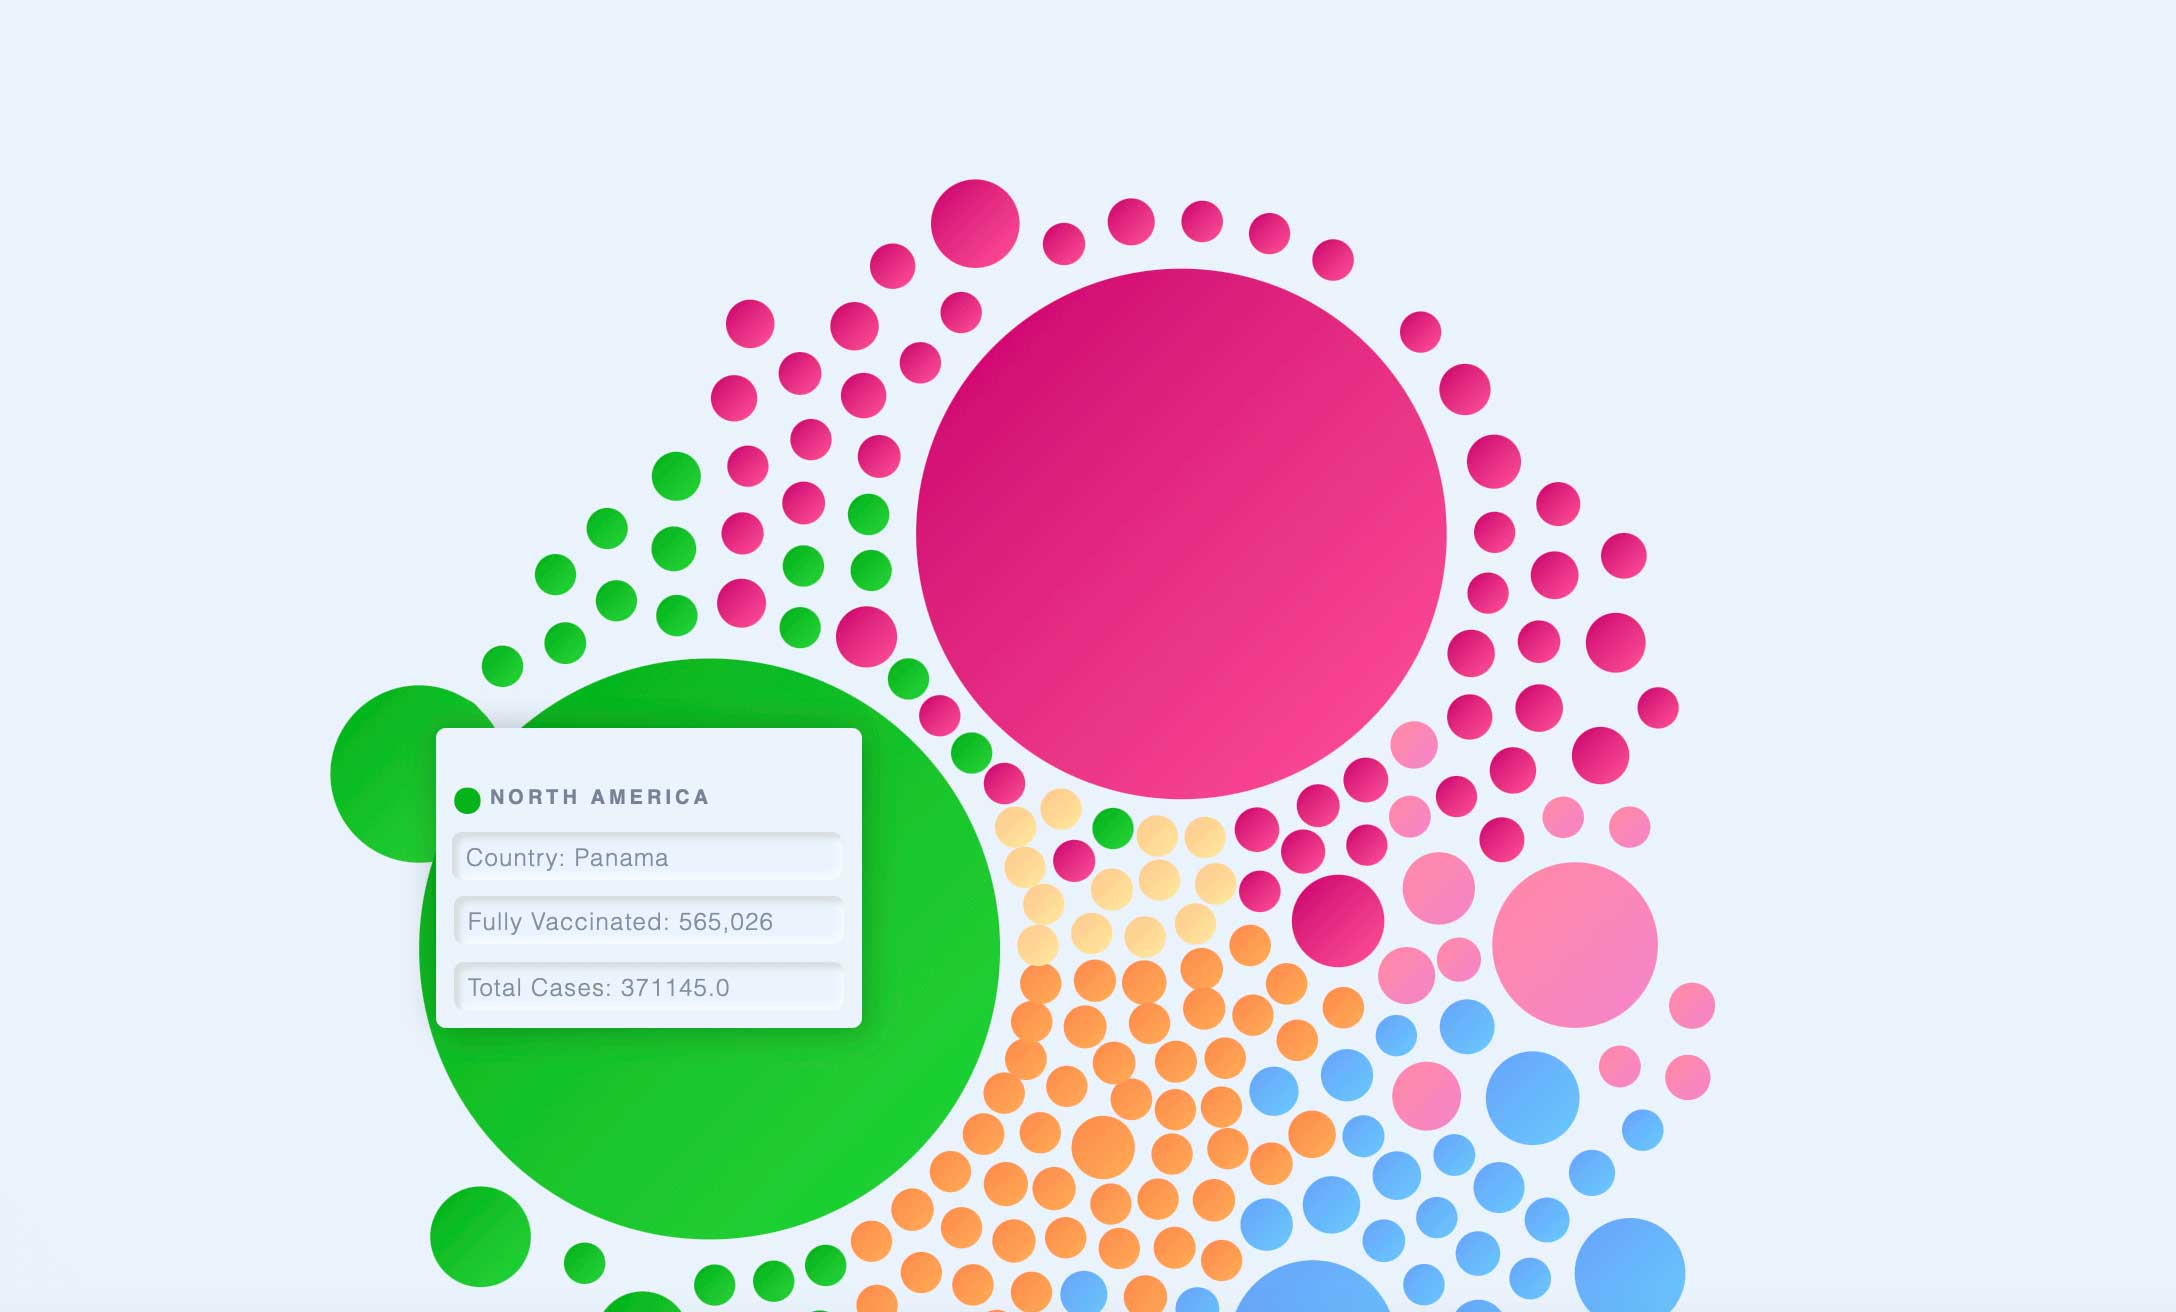
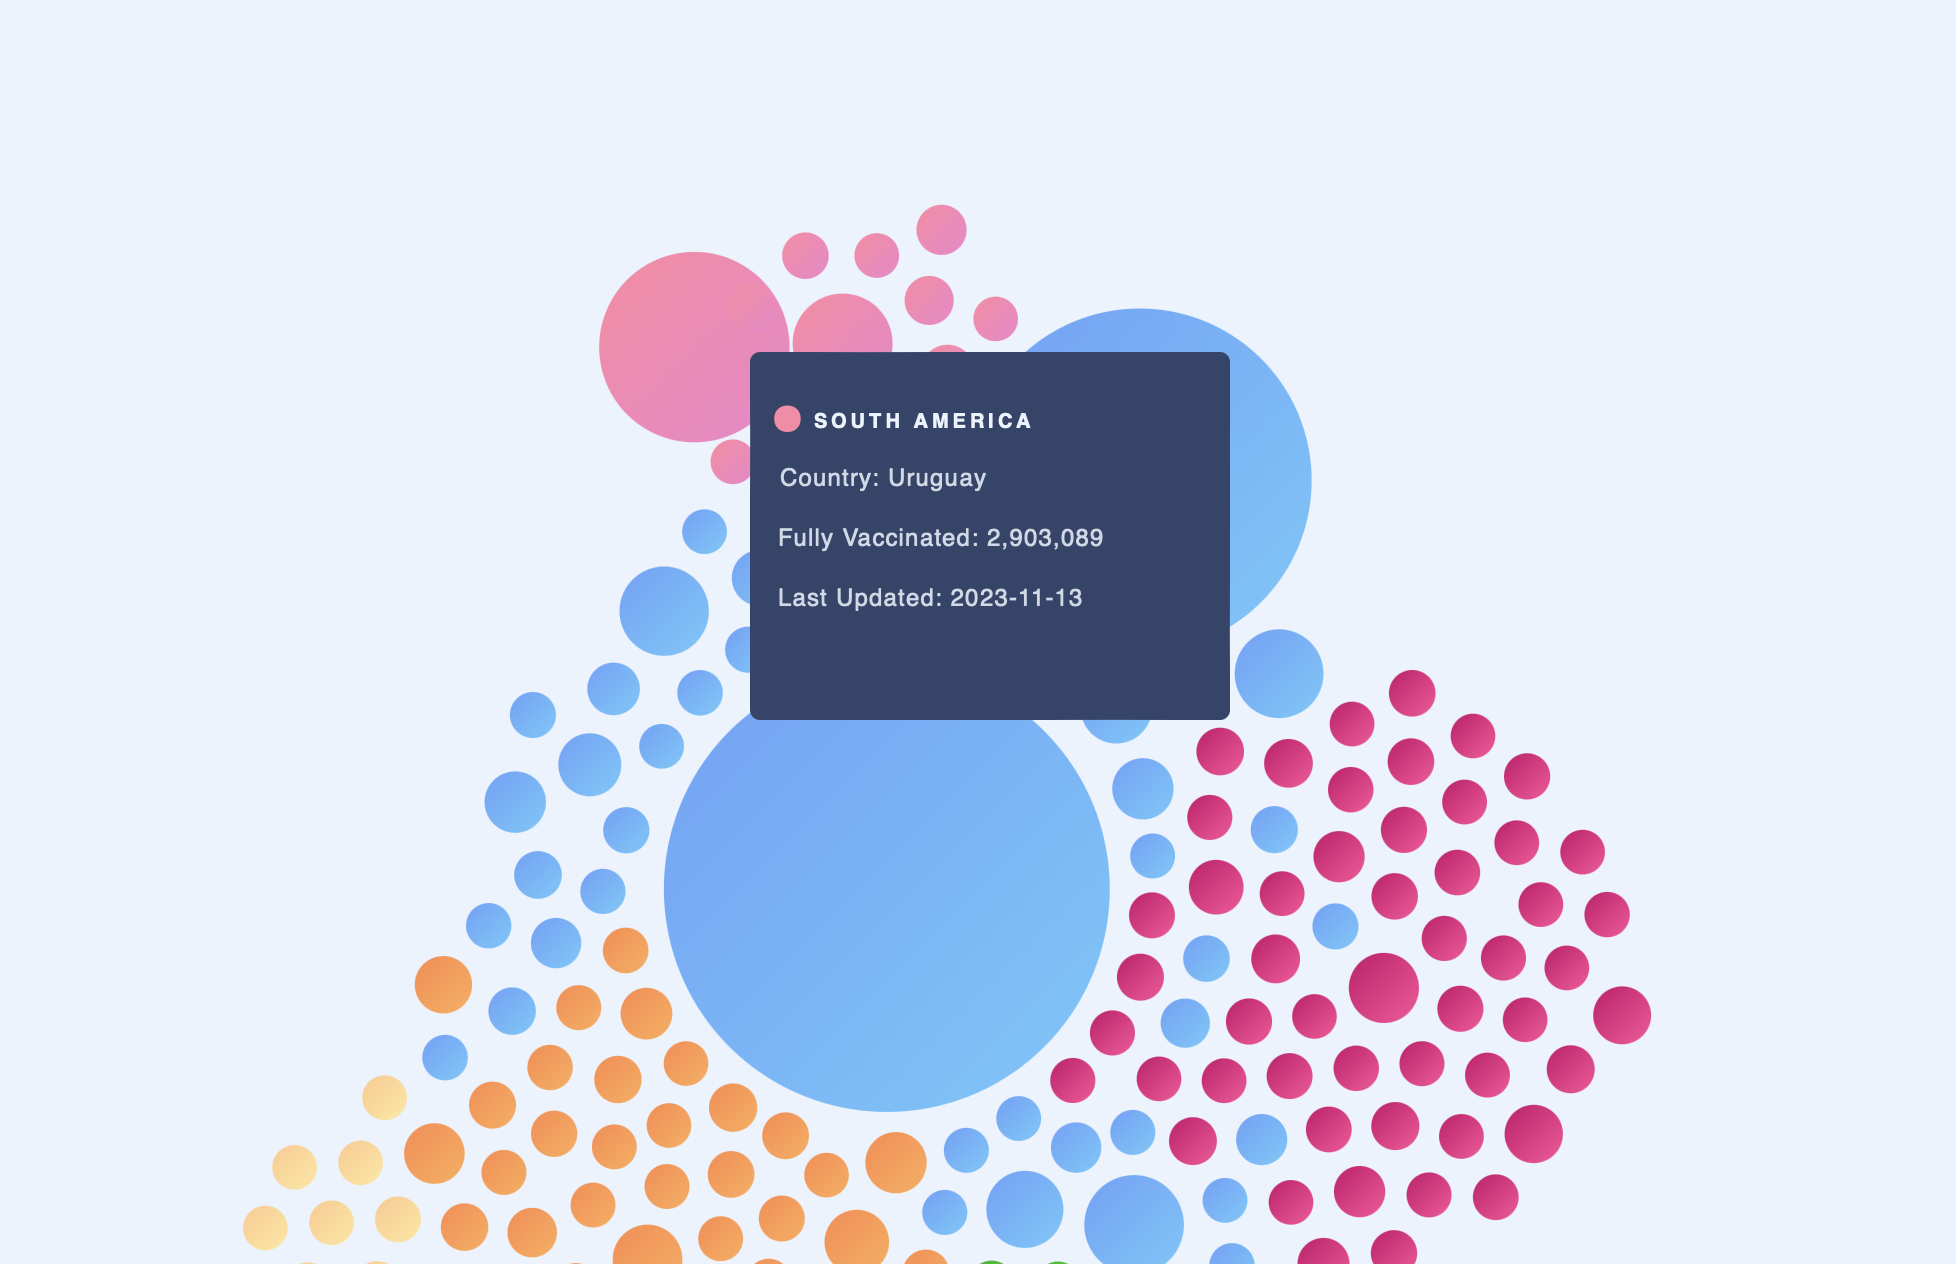
make portfolio adjustments

diff --git a/portfolio/src/Poc.js b/portfolio/src/Poc.js
@@ -1,7 +1,9 @@
 import './styles/infopage.css';
-import cordillera from './dev_files/poc.png';
+import iPadTop from './dev_files/poc.png';
 import Footer from './Footer.js';
 import LaunchButton from './LaunchButton.js';
+import iPadLogin from './dev_files/poc-ipad-login.png';
+import iPadHome from './dev_files/poc-ipad-home.png';
 
 function Poc() {
 
@@ -9,17 +11,36 @@ function Poc() {
     <div className="Info">
       <div class="work-title-div">
       <p className="span-pos2"><span className="dev2">Development</span></p>
-        <h2 className="work-title">PDF Speech to Text <br></br>
+        <h2 className="work-title">PDF editor and reader <br></br>
 Proof of Concept</h2>
         <p className="subtitle"> PROOF OF CONCEPT · 2021</p>
       </div>
       <div className="header-container">
-        <img className="header-img" src={cordillera}></img>
+        <img className="header-img" src={iPadTop}></img>
       </div>
       <div class="work-title-div">
-        <p className="body-text">Harnessing React.js, Express.js, Node.js, PostgreSQL, and Gitlab, a teamate and I built a PDF proof of concept iOS & web app with Text-To-Speech & highlighting capabilities for a prominent financial LLC. I also created the UI Design System and views for both the web and iOS apps, working equally with a team member to translate figma into code, create a REST API, and establish Database connectivity.</p>
-        <p className="body-text">I'd be happy to share more deeply about my experience over email or on the phone. Visuals are the personal re-imaginations of my final work and are not representative of any true public or unrealized product.
-</p>
+        <h2 className="body-text-title">Project overview</h2>
+        <p className="body-text">Using React.js, Express.js, Node.js, PostgreSQL, and GitLab, my teammate and I built a proof-of-concept iOS and web app for busy executives at a prominent financial LLC with many internal documents to read. This app provided a secure, internal platform to store, read, highlight and listen to PDF documents in a natural voice. </p>
+        <p className="body-text">Reading documents can be time-consuming and our users were limited in storage options due to document sensitivity. To add, no existing options allowed users to highlight or listen to documents. As a result, users had to find alternative ways to highlight key sections, and manually parse through entire documents, when listening would reduce eye strain, increase comprehension and allow for multi-tasking. </p>
+        <h2 className="body-text-title-segment">Solution</h2>
+        <p className="body-text">Our solution aimed to address all of these paint points. With it, users could log into the secure platform on iOS or web. Once there, they could view their previously uploaded PDFs, upload new ones, and easily access each by clicking or tapping on the filename under “Recent Files”. Users could highlight specific lines within a given document and have either selected lines or the entire document read aloud to them in a natural voice sounding voice for increased comprehension. </p>
+        <h2 className="body-text-title-segment">Views</h2>
+        <p className="body-text">All visuals are personal re-imaginations of my final work and are not representative of any public, or unrealized product.</p>
+        <div class="work-title-div-row">
+          <div class="work-title-div-col">
+            <div class="work-title-div-col-segment-challenge">
+              <figure>
+                <img className="work-col-img" src={iPadLogin}></img>
+                <figcaption>login view on an ipad</figcaption>
+              </figure>
+              <figure>
+                <img className="work-col-img" src={iPadHome}></img>
+                <figcaption>home view on an ipad</figcaption>
+              </figure>
+            </div>
+          </div>
+        </div>
+        <p className="body-text">For this project, I created the UI design system, designed the iOS and web application views, implemented the web app front end and in collaboration with my teammate, created a REST API, and established database connectivity. I'd be happy to share more deeply about my experience over email or on the phone.</p>
       </div>
       <Footer />
     </div>

diff --git a/portfolio/src/Masonry.js b/portfolio/src/Masonry.js
@@ -4,6 +4,8 @@ import fridgeshot from './design_files/fridgeshot.jpg';
 import garden from './dev_files/garden.jpg';
 import wave from './other_files/Wave.png';
 import Card from './Card.js';
+import covid from './dev_files/covidtop.jpg';
+
 
 function Masonry() {
 
@@ -12,13 +14,11 @@ function Masonry() {
     <div class="title-div-design"> 
       <div class="title-div">
         <div class="hello-statement">
-          <img  src={wave}></img>
-          <h1 > Hi! I'm Lauren</h1>
+          <img src={wave}></img>
+          <h1> Hi! I'm Lauren</h1>
         </div>
-        <h1 className="egg"> A Software Engineer and User Experience Designer based in New York. I'm driven by functionality & enjoyable human interaction.</h1>
-        <p className="egg">Currently at Narmi. Studied Computer Science, User Interface & User Experience Design at Cornell University.</p>
-          {/* I'm a new grad from Cornell University where I studied Computer Science and UI/UX Design. My sweet spots are both design and development.</p> */}
-        {/* <p className="egg">I'm a new grad from <span className="pg">Cornell University</span> where I studied <Link to="/dev"><span className="prog">CS</span></Link> and <span class="ed">UI/UX Design</span>. My sweet spots are both design and development.</p> */}
+        <h1 className="egg"> A Software Engineer based in New York, who's driven by a love for functional and beautiful design.</h1>
+        <p className="egg">Studied Computer Science, User Interface & User Experience Design at Cornell University.</p>
       </div>
       <svg class="blob" xmlns="http://www.w3.org/2000/svg" viewBox="0 0 1440 320">
         <path fill="#f6f6f8" fill-opacity="1" d="M0,96L60,128C120,160,240,224,360,213.3C480,203,600,117,720,106.7C840,96,960,160,1080,165.3C1200,171,1320,117,1380,90.7L1440,64L1440,0L1380,0C1320,0,1200,0,1080,0C960,0,840,0,720,0C600,0,480,0,360,0C240,0,120,0,60,0L0,0Z"></path>
@@ -29,7 +29,8 @@ function Masonry() {
       </div>
         <div class="card_container">
           <Card subpath="garden" image={garden} title="CLI Garden Simulation Game" label="Development" desc="Built OCaml CLI Gardening-simulation game in a team of 3."/>
-          <Card subpath="poc" image={poc} title="PDF Speech to Text Proof of Concept" label="Development" desc="Created Audible proof of concept iOS and web app."/>
+          <Card subpath="poc" image={poc} title="PDF editor and reader app" label="Development" desc="A secure platform to store, read, highlight and listen to PDF documents."/>
+          <Card subpath="covid" image={covid} title="Intl. Covid-19 Vaccine Progress" label="Development" desc="An interactive data visualization illustating world-wide covid-19 vaccination progress."/>
           <Card subpath="fridgeshot" image={fridgeshot} title="Fridgeshot App Case Study" label="Design" desc="Food recognizing and recipe generating app for new adults."/>
         </div>
     </div>

diff --git a/portfolio/src/About.js b/portfolio/src/About.js
@@ -13,12 +13,10 @@ import blob from "./other_files/blob2.JPG";
                 </div>
                 <div class='column-about'>
                     <div class='two-column-about'>
-                        <h1 class="about-title">A <span id="grad-r">User Experience Designer</span>, and a <span id="grad">Software Engineer</span>   driven by functionality and enjoyable human interaction.</h1>
+                        <h1 class="about-title">A <span id="grad">Software Engineer</span> keenly focused on fostering positive human experiences with technology.</h1>
 
-                    <p class="about-text">Hi! I’m a Software Engineer at <span id="bold">Narmi</span>. Previously, I interned at <span id="bold">Nasdaq</span> as a Full Stack Software Engineer where I designed and built a PDF reader and annotator proof of concept app. 
-                        <br></br><br></br>I recently received my Bachelor of Arts from <span id="bold">Cornell University</span>, where I studied <span id="bold">Computer Science</span> and <span id="bold">User Interface and User Experience Design</span>. I was as a Teaching Assistant for INFO 4340 (App Prototyping and Development) where I taught parts of the user centered design process and how to develop high fidelity app prototypes. 
-                        <br></br><br></br>I was also a team lead for the Business and Web Development sub team of <span id="bold">Cornell ChemE Car</span>, a nationally competing engineering project team that constructs efficient model cars powered and stopped by chemical reactions.  
-                        <br></br><br></br>I’ve always <span id="bold">been fascinated</span> with how things work and why. The ability to investigate this, and solve and create my own problems drew me to Computer Science. However, in my undergrad, I began focusing on why and how good human experiences with technology work. Design, especially good design, has always invigorated me. <span id="bold">Designing and developing</span> functional and beautiful things is now what drives me. 
+                    <p class="about-text">Hi! I’m a Software Engineer based in <span id="bold">New York</span>. I received my Bachelor of Arts from <span id="bold">Cornell University</span>, where I studied <span id="bold">Computer Science</span> and <span id="bold">User Interface and User Experience Design</span>.
+                        <br></br><br></br>I’ve always been fascinated with how things work and why. The opportunity to address problem spaces with creative solutions lead me to software, while compositional harmony drew me to design. I’m happiest at the intersection of both!
                     </p>
                     </div>
                 </div>

diff --git a/portfolio/src/Footer.js b/portfolio/src/Footer.js
@@ -1,13 +1,16 @@
 
 import './styles/footer.css';
-import heart from "./other_files/heart_front_color.png";
 import up from "./other_files/PointUpFace.png";
 import mail from "./other_files/mail-front-clay.png";
 import brief from "./other_files/travel-front-color.png";
 import pc from "./other_files/computer-front-premium.png";
 
-
 function Footer() {
+
+  function handleClick(){
+    window.scrollTo(0,0);
+  };
+
   function getDate() {
     var d = new Date();
     var date = "";
@@ -40,7 +43,7 @@ function Footer() {
       <div className="chat">
         <div className="mine messages">
           <p className="message"><img class="emoji-3d-links" src={up}></img>
-            &nbsp;<a className="back2Top" id="back2Top" title="Back to top" href="#">back up</a>
+            &nbsp;<a className="back2Top" id="back2Top" title="Back to top" onClick={handleClick}>back up</a>
           </p>
           <div className="message last">
             <ul className="f-three-column">
@@ -59,7 +62,7 @@ function Footer() {
         <div className="yours messages">
           <p class="yours-padding">
           <p className="message last">
-            Built with <img class="emoji-3d" src={heart}></img> by Lauren Harpole © 2024
+            Built entirely by Lauren Harpole © 2025
           </p>
           </p>
         </div>

diff --git a/portfolio/src/MasonryDev.js b/portfolio/src/MasonryDev.js
@@ -14,7 +14,8 @@ function MasonryDev() {
       </div>
         <div class="card_container">
           <Card subpath="garden" image={garden} title="CLI Garden Simulation Game" label="Development" desc="Built OCaml CLI Gardening-simulation game in a team of 3."/>
-          <Card subpath="poc" image={poc} title="PDF Speech to Text Proof of Concept" label="Development" desc="Created Audible proof of concept iOS and web app."/>          <Card subpath="covid" image={covid} title="Intl. Covid-19 Vaccine Progress" label="Development" desc="An interactive client-side data visualization made using the graphing and visualization library D3.js illustrating a breakdown in covid-19 worldwide data from May, 2021."/>
+          <Card subpath="poc" image={poc} title="PDF editor and reader app" label="Development" desc="A secure platform to store, read, highlight and listen to PDF documents."/>          
+          <Card subpath="covid" image={covid} title="Intl. Covid-19 Vaccine Progress" label="Development" desc="An interactive data visualization illustating world-wide covid-19 vaccination progress."/>
           <Card subpath="sweeper" image={sweeper} title="Subway Sweeper Game" label="Development" desc="A game in which a subway diver finds the shortest path to a ring and then"/>   
         </div>
     </div>

diff --git a/portfolio/src/CovidVis.js b/portfolio/src/CovidVis.js
@@ -16,7 +16,7 @@ function CovidVis() {
         <figure>
           <iframe className="embed" src="https://laurenharpole.github.io/May-Vaccine-Progress-Vis/" sandox="" />
         </figure>
-        <p className="body-text"> An interactive client-side data visualization made using  the graphing and visualization library D3.js illustrating a breakdown in covid-19 worldwide data from May, 2021. The data comes from Johns Hopkins and the bubble radii are sized based on country population. Below is a link to a github site displaying the chart on my personal page.</p>
+        <p className="body-text"> An interactive, client-side data visualization illustating world-wide Covid-19 vaccination progress. Data comes from <em>Our World In Data</em> and radii size was determined by number of fully vaccinated individuals. Designed and developed by me, leveraging the D3.js graphing library. Click the link below to view the visualization where it's hosted on my github.</p>
         <p className="body-text"><a href="https://laurenharpole.github.io/May-Vaccine-Progress-Vis/"><LaunchButton/></a></p>
       </div>
       <Footer />

diff --git a/portfolio/src/Garden.js b/portfolio/src/Garden.js
@@ -19,7 +19,7 @@ function Garden() {
         <p className="body-text">  In the spring of 2020, I built an OCaml CLI Gardening-simulation game in a team of 3.
           We implemented OCaml graphics to render visuals, and managed simulated time through state stepping functionality to
           move through plant lifetimes, harvesting, and sowing. </p>
-          <p className="body-text"><a href="https://laurenharpole.github.io/cordillera/"><CodeButton/></a></p>
+          <p className="body-text"><a href="https://github.com/laurenharpole/Gardening-Game"><CodeButton/></a></p>
       </div>
       <Footer />
     </div>

diff --git a/portfolio/src/styles/footer.css b/portfolio/src/styles/footer.css
@@ -28,6 +28,10 @@ img.emoji-3d-links{
   margin: -2px;
 }
 
+#back2Top {
+  text-decoration: underline;
+}
+
 /* general messages section */
 .chat {
   display: flex;
